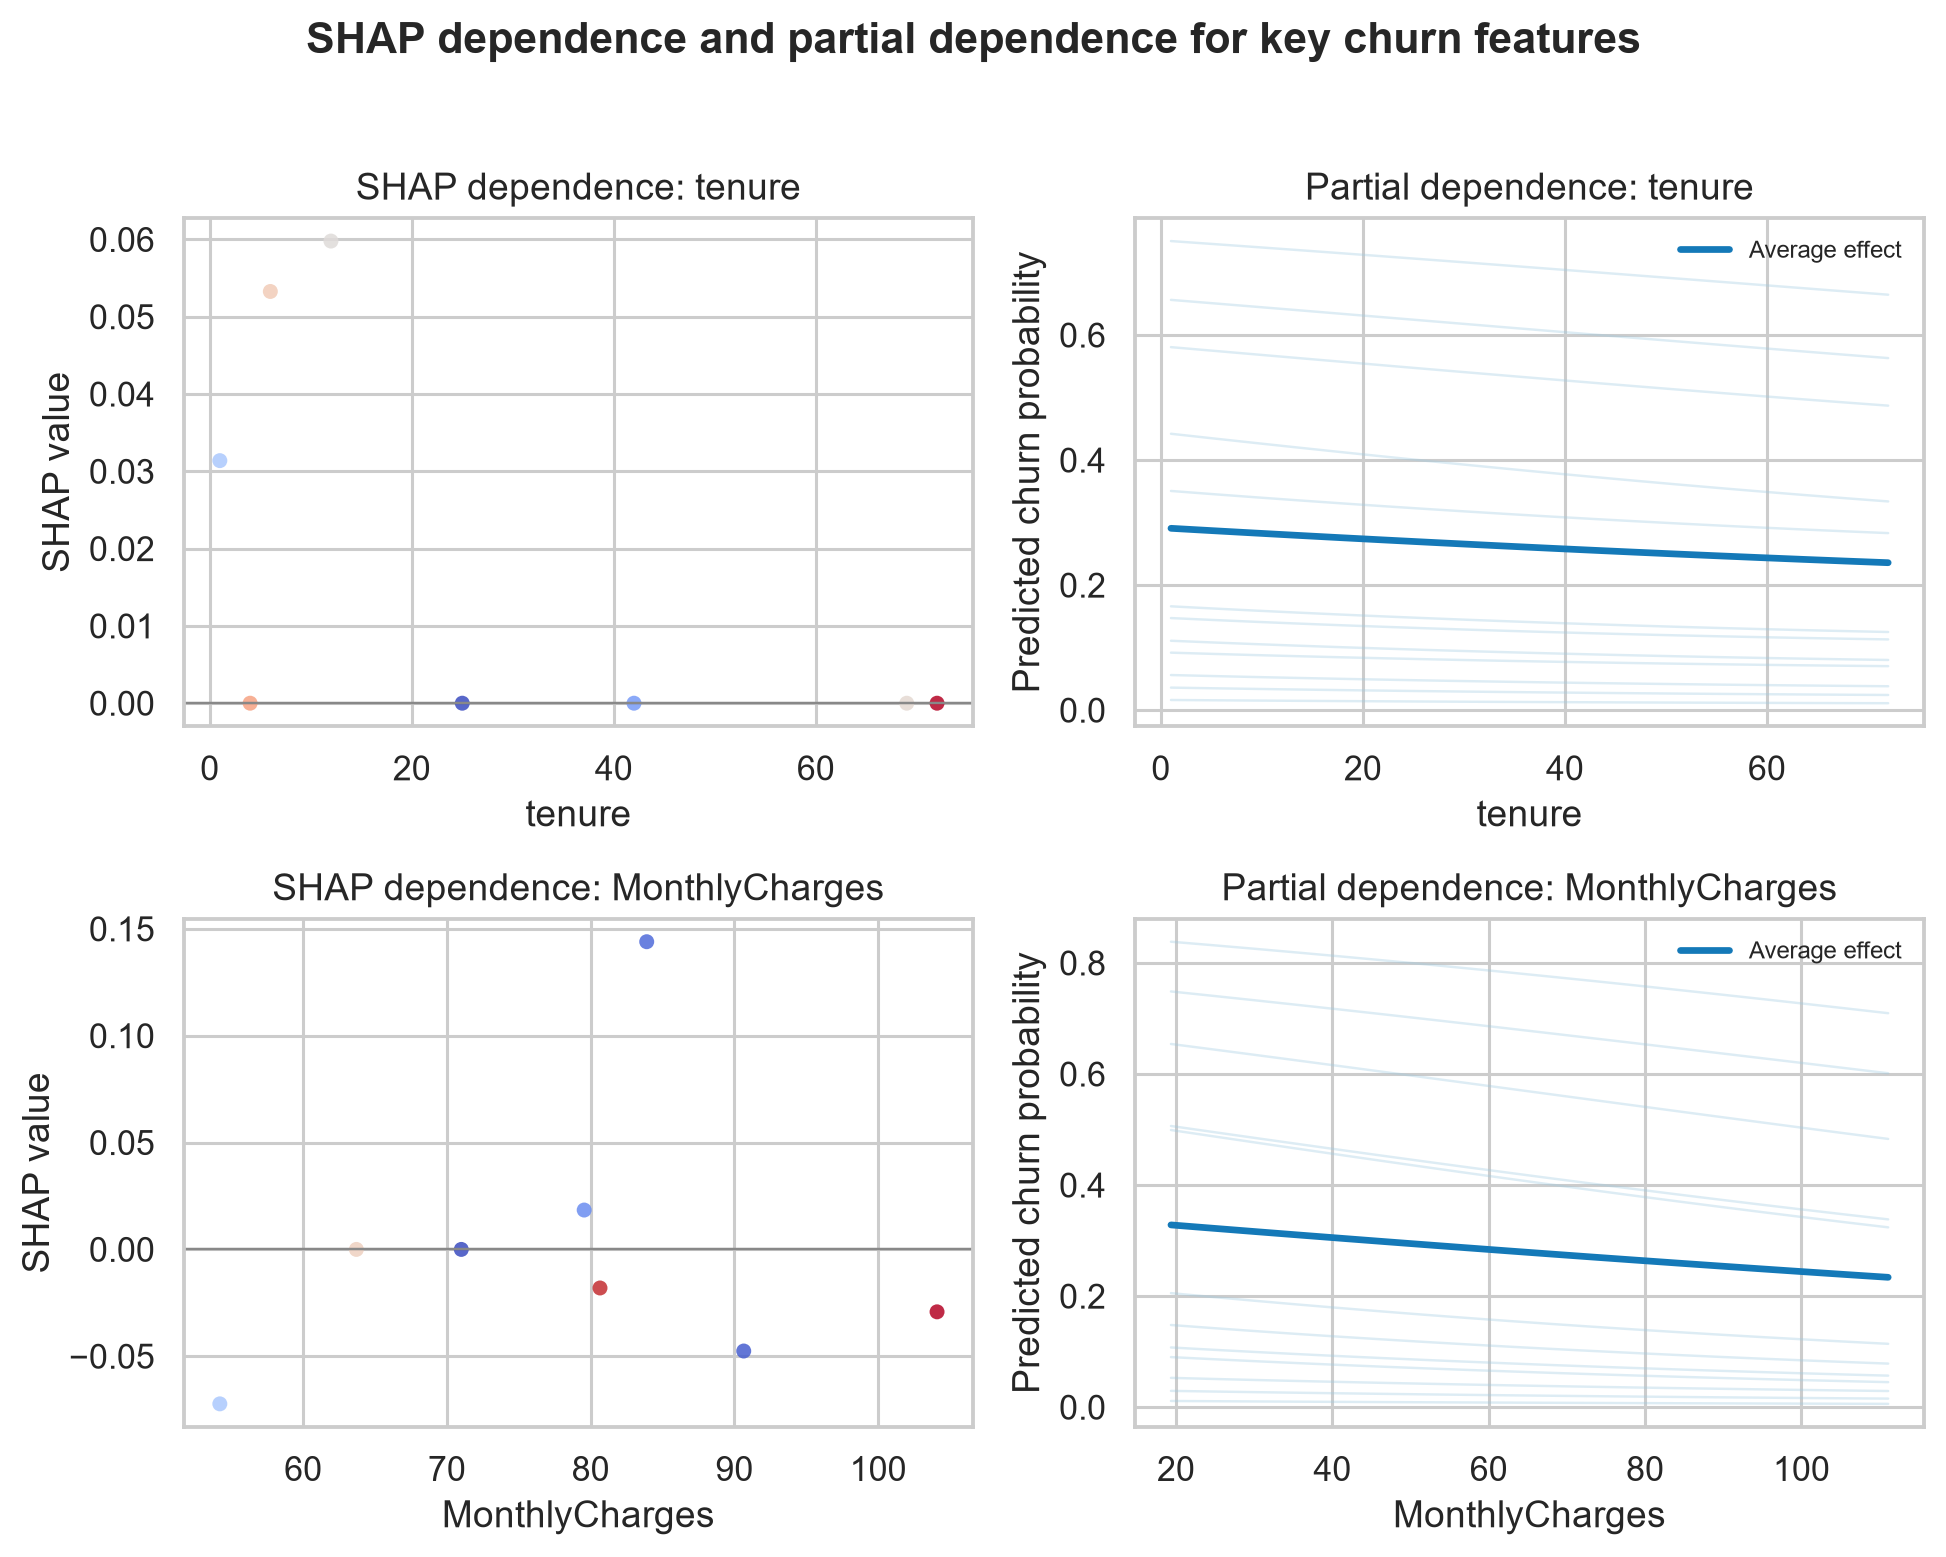
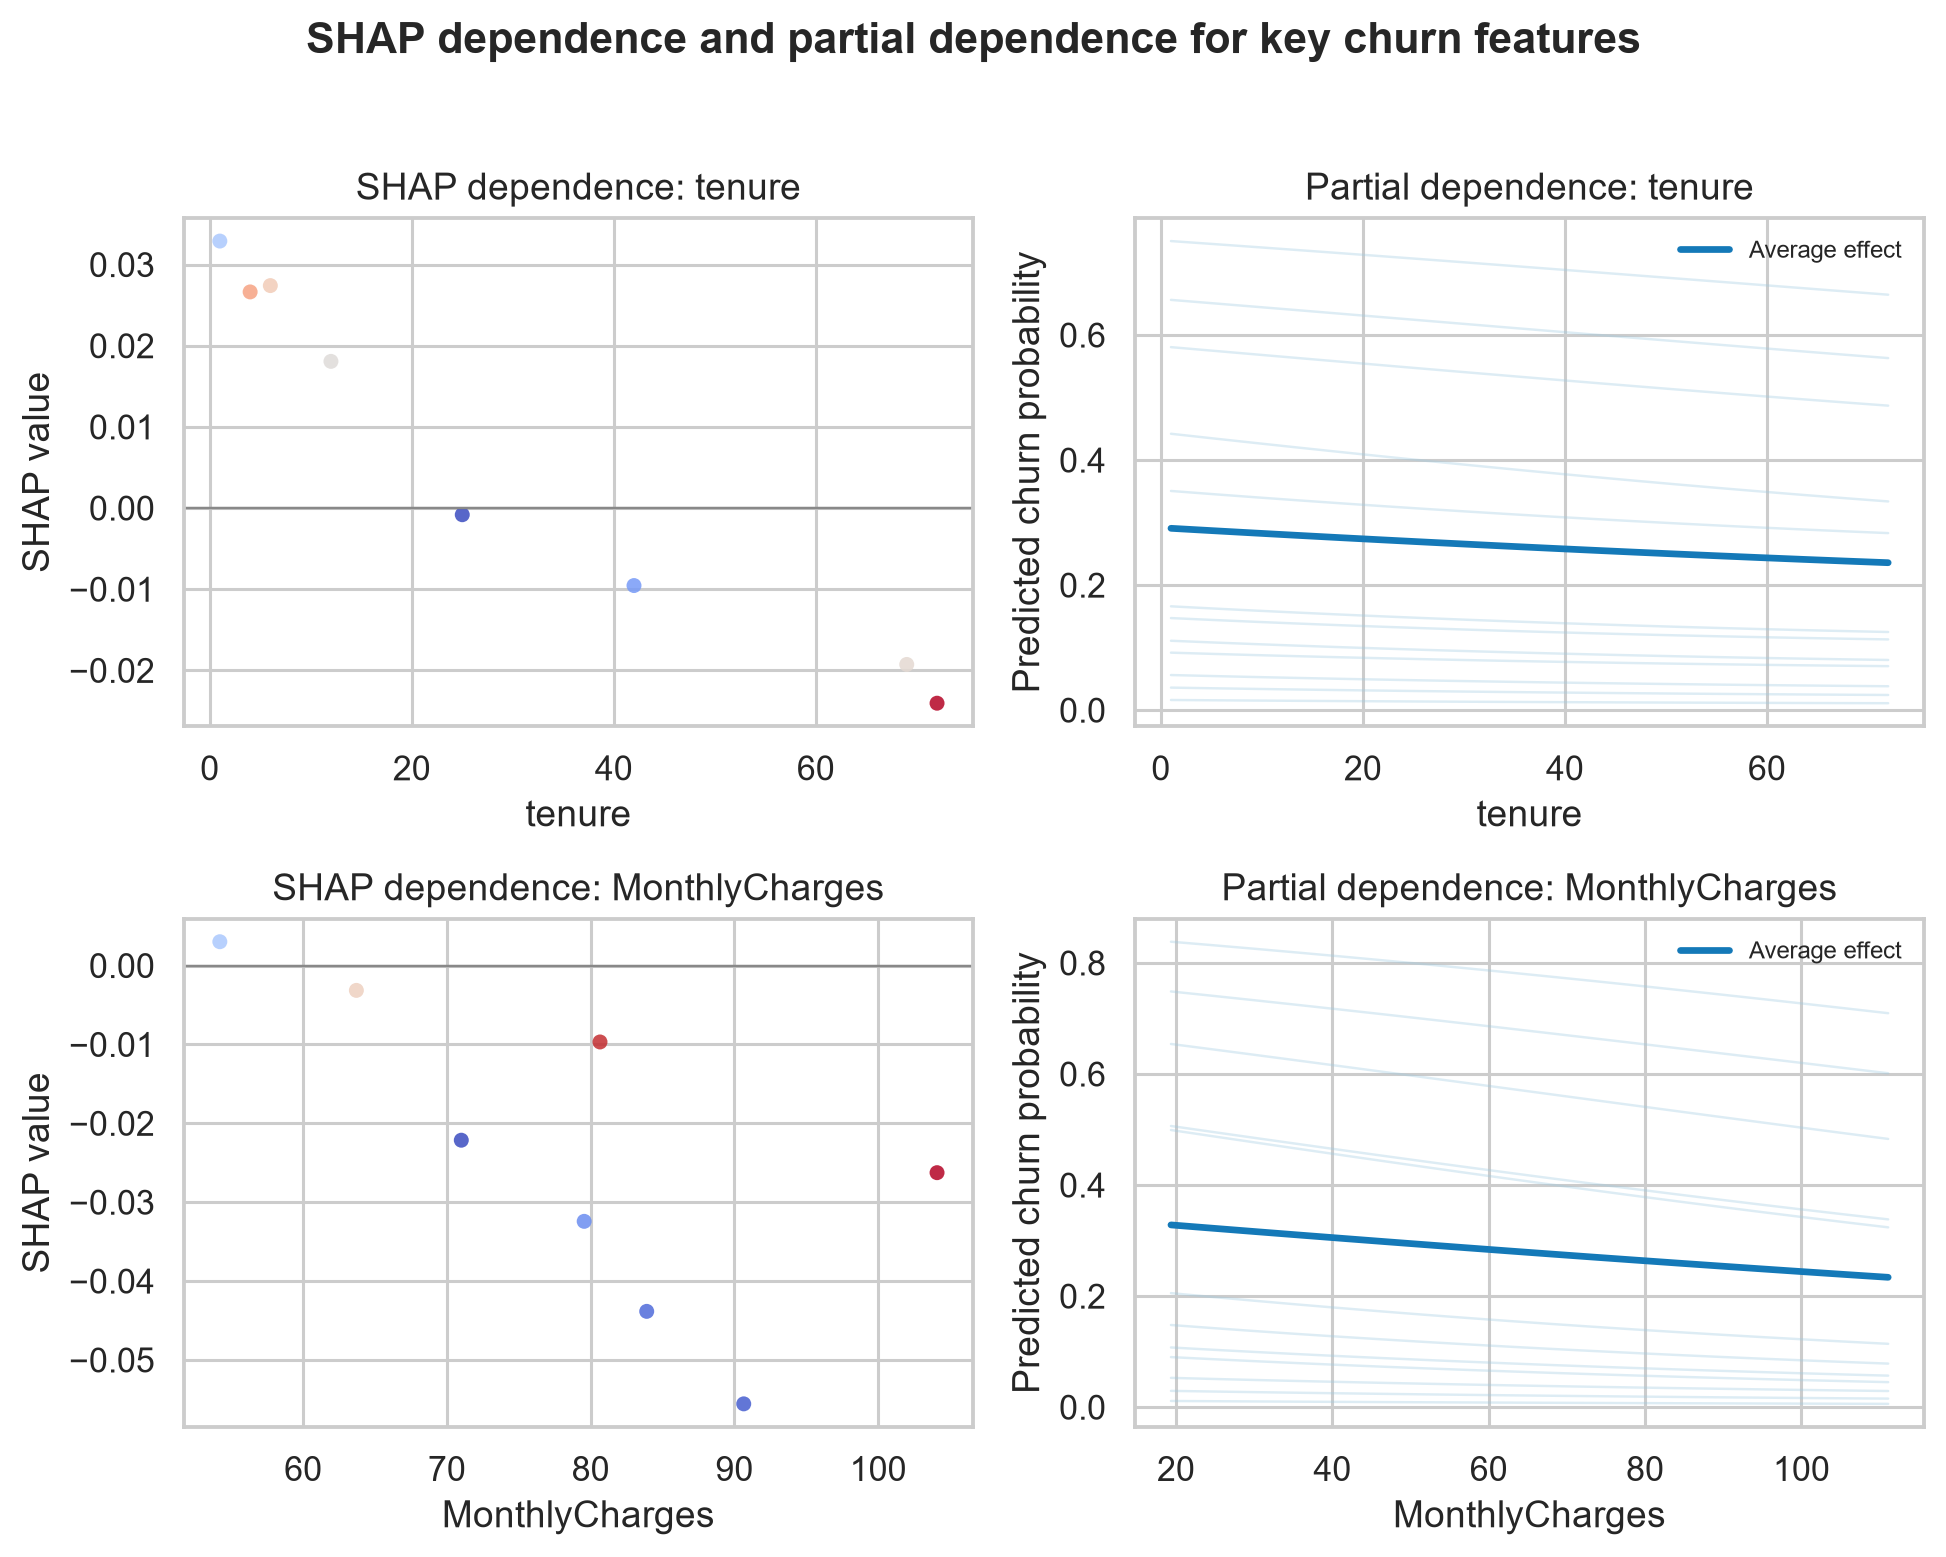
feat: improve SHAP beeswarm visualization

diff --git a/src/decision_visuals.py b/src/decision_visuals.py
@@ -154,22 +154,27 @@ def main() -> None:
     ax.grid(axis="x", alpha=.22)
     fig.tight_layout(); fig.savefig(OUT / "permutation_importance.png", bbox_inches="tight", facecolor="white"); plt.close(fig)
 
-    # 10. SHAP explanation from the real champion model and test rows.
+    # 10. SHAP beeswarm from real held-out test rows.
+    # The SVC is model-agnostic, so the modern SHAP Explainer API uses a
+    # permutation explainer with a bounded evaluation budget.
     background = X_test.sample(n=min(5, len(X_test)), random_state=42)
     shap_rows = X_test.sample(n=min(8, len(X_test)), random_state=7)
     with warnings.catch_warnings():
         warnings.simplefilter("ignore")
-        explainer = shap.KernelExplainer(model.predict_proba, background, feature_names=list(X_test.columns))
-        shap_result = explainer.shap_values(shap_rows, nsamples=20, silent=True)
-    shap_array = np.asarray(shap_result)
-    if isinstance(shap_result, list):
-        shap_values = shap_result[1]
-    elif shap_array.ndim == 3:
-        shap_values = shap_array[:, :, 1]
-    else:
-        shap_values = shap_array
-    shap.summary_plot(shap_values, shap_rows, show=False, max_display=15, plot_size=(8, 5), color_bar=True)
-    plt.title("SHAP summary: drivers of predicted churn", pad=16)
+        explainer = shap.Explainer(model.predict_proba, background, feature_names=list(X_test.columns))
+        shap_result = explainer(shap_rows, max_evals=65)
+    shap_explanation = shap_result[..., 1] if shap_result.values.ndim == 3 else shap_result
+    shap_values = shap_explanation.values
+    shap.plots.beeswarm(
+        shap_explanation,
+        max_display=18,
+        show=False,
+        color_bar=True,
+        s=18,
+        plot_size=(9, 7),
+        color_bar_label="Feature value",
+    )
+    plt.title("SHAP beeswarm: drivers of predicted churn", pad=16)
     plt.tight_layout()
     plt.savefig(OUT / "shap_summary.png", bbox_inches="tight", facecolor="white", dpi=220)
     plt.close()

diff --git a/README.md b/README.md
@@ -104,6 +104,17 @@ Preparation includes numeric coercion, missing-value imputation, categorical enc
 | --- | --- |
 | ![SHAP summary](figures/shap_summary.png) | ![Permutation importance](figures/permutation_importance.png) |
 
+### SHAP summary: how to read the model explanation
+
+The SHAP beeswarm plot follows the current [`shap.plots.beeswarm`](https://shap.readthedocs.io/en/stable/generated/shap.plots.beeswarm.html) API and shows the global behaviour of the champion churn model on representative test rows:
+
+- Each point represents one customer observation.
+- Features are ordered by their average absolute SHAP impact, so the features at the top influence the model most.
+- A positive SHAP value moves the prediction toward **higher churn risk**; a negative value moves it toward **lower churn risk**.
+- Red points indicate relatively high feature values and blue points indicate relatively low feature values. For encoded categorical features, the colour should be interpreted as the encoded value rather than as a simple numeric scale.
+
+In this model, the largest global contributors include `LogTotalCharges`, `Contract_x_Charge`, `MonthlyCharges`, `tenure`, `IsNewCustomer`, and `ChargesPerTenure`. These are model associations, not proof that changing a customer's charges, contract, or tenure will cause or prevent churn. The detailed SHAP figure is generated from real held-out test rows by `src/decision_visuals.py`.
+
 ### From prediction to retention action
 
 ![Retention action simulation](figures/retention_action.png)
